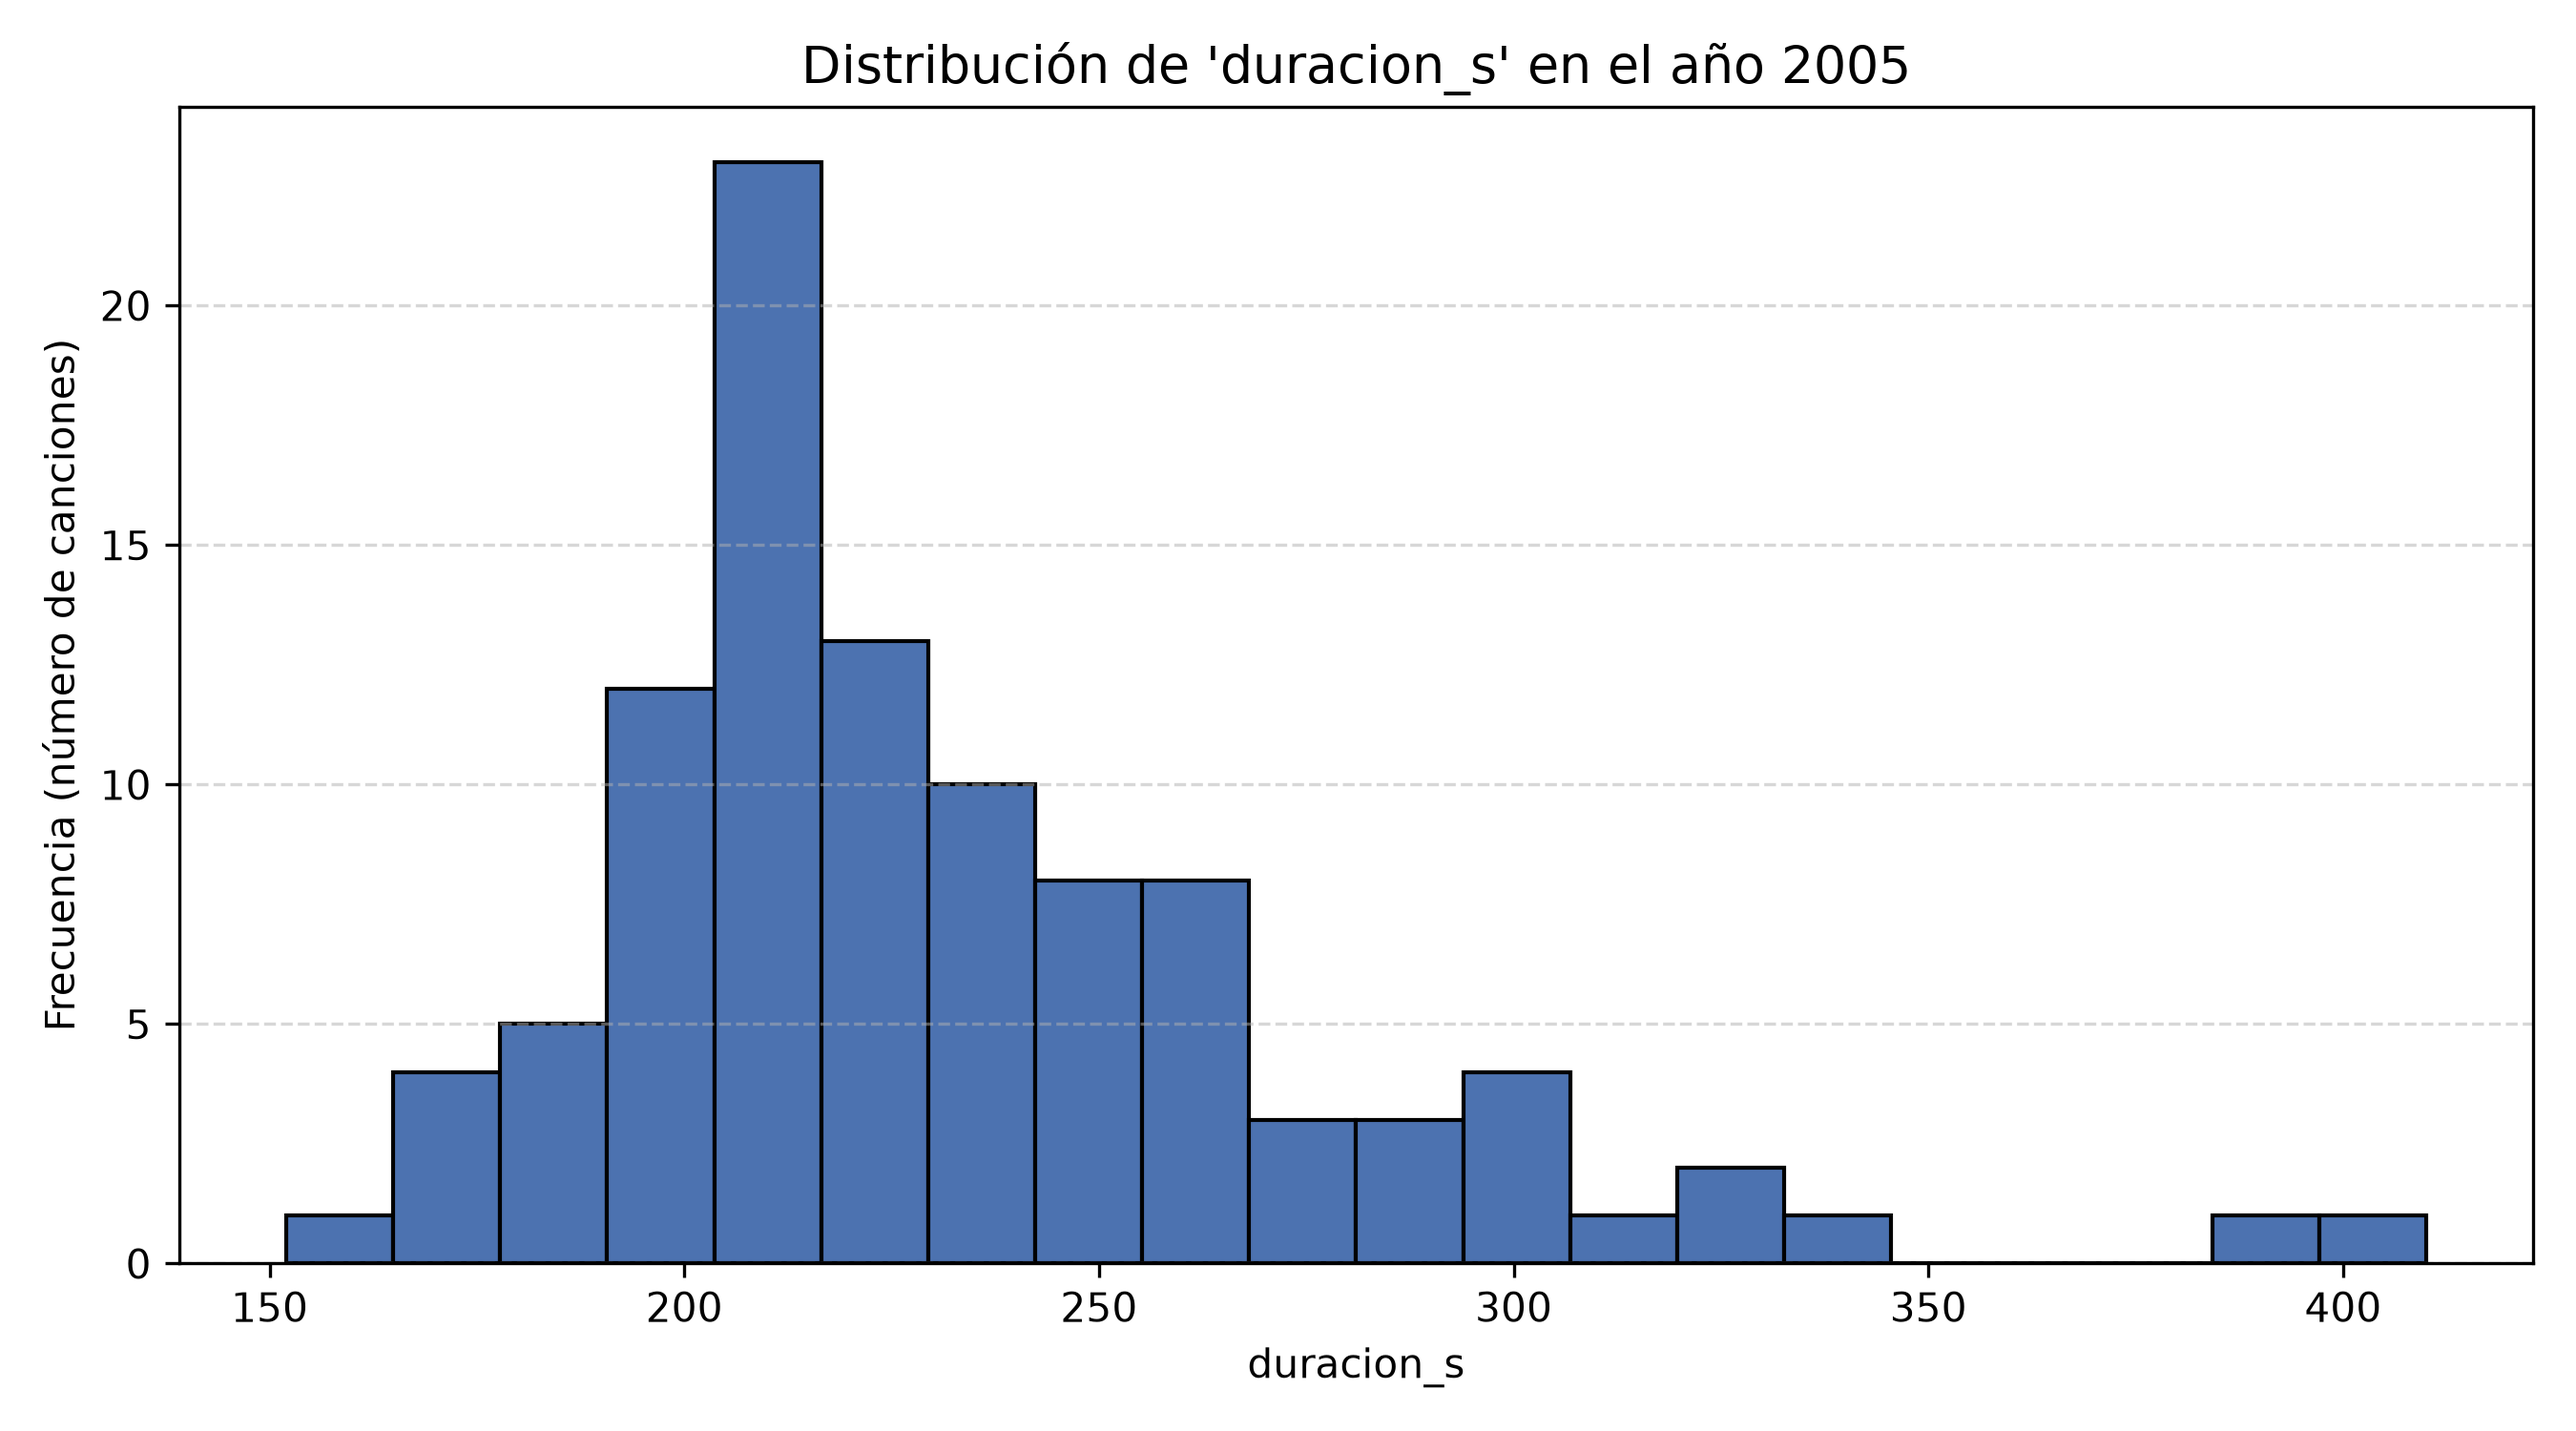
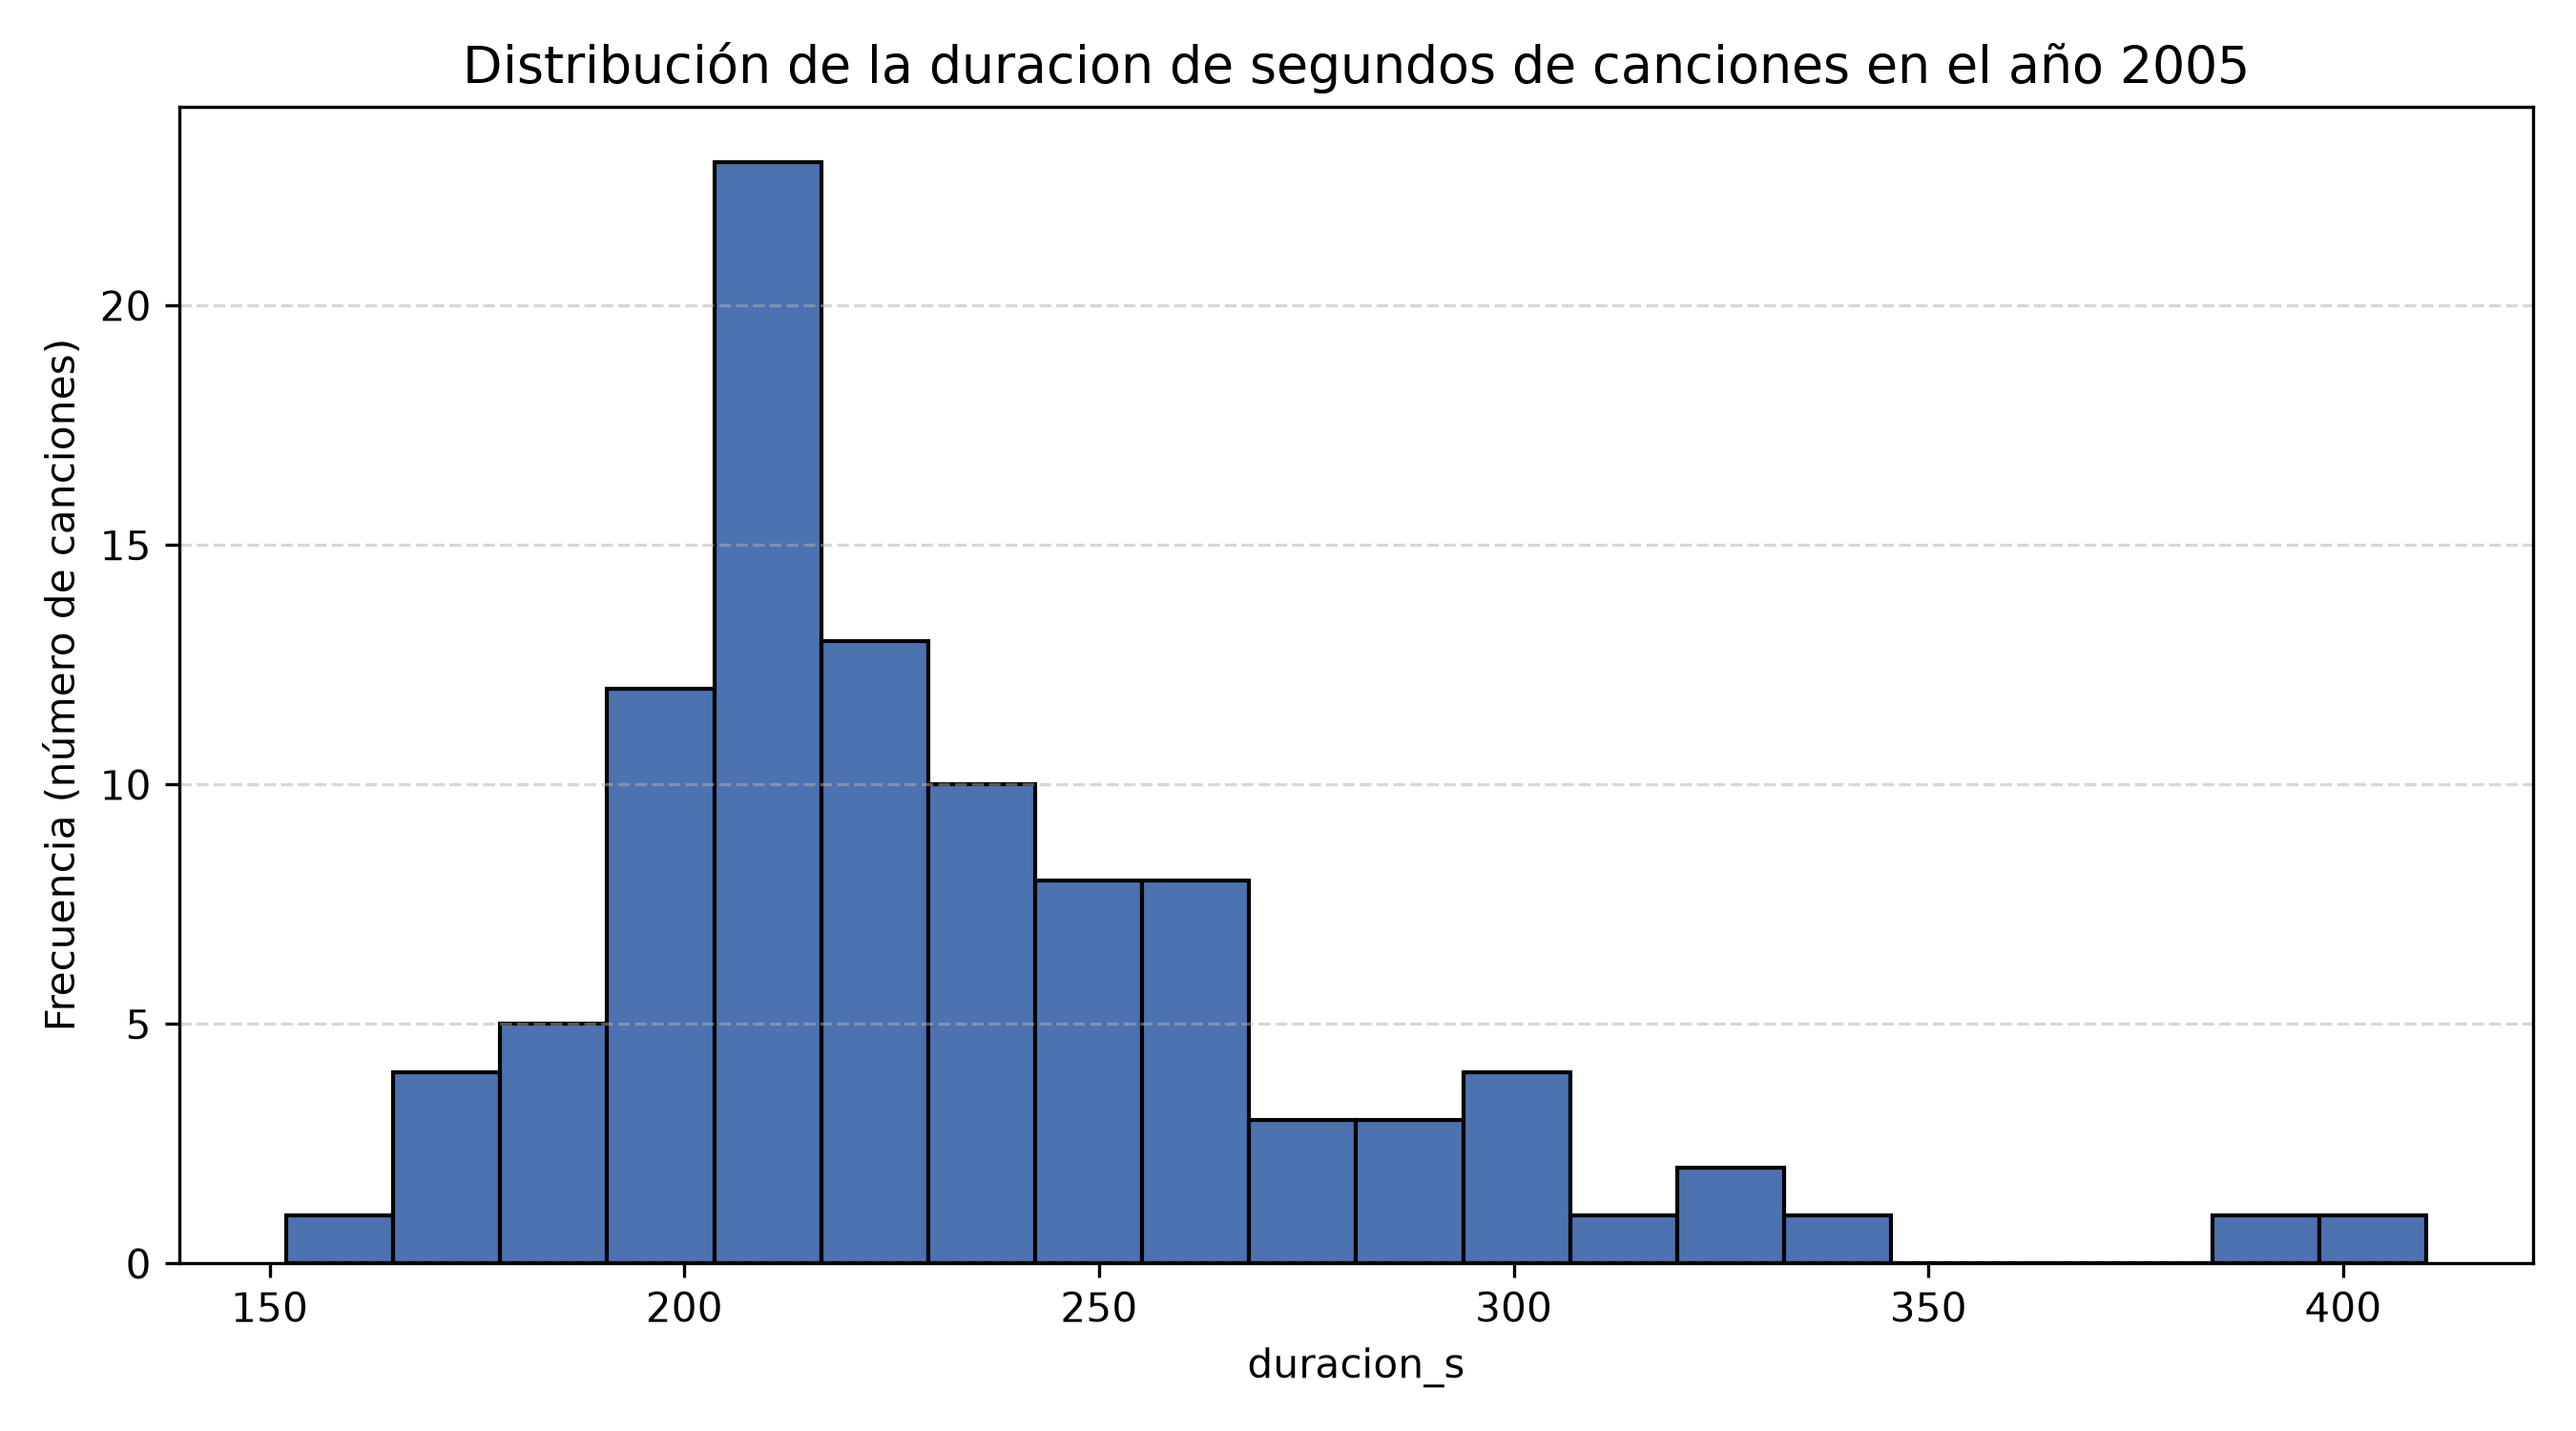
añadido el analisis estadisticos de los datos

Changed region(s): [[0.1867, 0.0307, 0.8711, 0.0613]]

diff --git a/main.py b/main.py
@@ -12,12 +12,21 @@ from comun.fusionar_dataframes import limpiar_dataframe_final, fusionar_datafram
 from graficos.histograma import generar_histograma_duracion, generar_histograma_duracion_por_año, generar_histograma_fans
 
 from graficos.blotpox_outliers import generar_boxplot
+
+from calculos.calculos_estadistica import calcular_estadisticas_numericas
+
+from graficos.barras import diagramas_barras
+
+from graficos.dispersion import diagramas_dispersion
+
+from graficos.mapa_calor import mapa_calor
 def menu_general():
 
     print("0 salir")
     print("1 generar dataframe web scraping")
     print("2 generar dataframe API")
     print("3 generar dataframe conjunto")
+    print("4 calculos estadisticos de datos")
 
 
 
@@ -44,6 +53,7 @@ def menu_grafica():
     print("2 barras")
     print("3 blotpox")
     print("4 dispersion")
+    print("5 mapa de calor")
 
 
 def web_scraping_menus():
@@ -56,12 +66,12 @@ def web_scraping_menus():
 
             menu_web_scraping()
 
-            opcion_web_scraping = try_except_int("escoge una opcion")
+            opcion_web_scraping = try_except_int("escoge una opcion: ")
 
             while(opcion_web_scraping < 0 or opcion_web_scraping > 2):
 
                 menu_web_scraping()
-                opcion_web_scraping = try_except_int("escoge una opcion correcta")
+                opcion_web_scraping = try_except_int("escoge una opcion correcta: ")
 
 
             if (opcion_web_scraping == 1):
@@ -96,12 +106,12 @@ def api_menu():
 
     while(opcion_api != 0):
         
-        opcion_api = try_except_int("escoge una opcion")
+        opcion_api = try_except_int("escoge una opcion: ")
 
         while(opcion_api < 0 or opcion_api > 2):
 
             menu_api()
-            opcion_api = try_except_int("escoge una opcion correcta")
+            opcion_api = try_except_int("escoge una opcion correcta: ")
 
         try:
 
@@ -126,6 +136,28 @@ def api_menu():
     return dataframe_api_scraping
 
 
+def ver_no_ver_dataframe(df): # funcion para decidir si el usuario quiere ver que datos hay en el dataframe 
+# final 
+
+    opcion_ver_dataframe = try_except_int("pon 1 si quieres ver el dataframe final, 0 en caso contrario: ")
+
+    while(opcion_ver_dataframe != 0 and opcion_ver_dataframe != 1): # si no es ni 0 ni 1 vuelve a pedir un dato
+                    
+        opcion_ver_dataframe = try_except_int("pon un dato correcto, 1 si quieres ver el dataframe final, 0 en caso contrario: ")
+                
+                
+    if (opcion_ver_dataframe == 1): # si es 1 mostramos el tmaño de el dataframe
+
+        print("tamaño del dataframe fusionado:", df.shape)
+        print(df.head())
+
+        print("tamaño de los datos en total :", df.shape[0]*df.shape[1])
+
+        print("valores vacíos que quedan:", df.isna().sum().sum())
+
+        print(df.info()) # mostramos los datos de el dataframe
+
+
 
 
 
@@ -137,7 +169,7 @@ while(opcion != 0): # bucle que solo sale si se escribe un 0
 
     opcion = try_except_int("escoge una opcion: ")
 
-    while(opcion < 0 or opcion > 3):
+    while(opcion < 0 or opcion > 4):
 
         menu_general()
 
@@ -155,22 +187,25 @@ while(opcion != 0): # bucle que solo sale si se escribe un 0
 
     elif (opcion == 3):
 
+        
         menu_grafica()
 
         opcion_grafica = try_except_int("escoge una opcion: ")
 
-        while(opcion != 0):
+        while(opcion_grafica != 0):
 
-            while(opcion < 0 or opcion > 4):
+            while(opcion_grafica < 0 or opcion_grafica > 5):
 
                 opcion_grafica = try_except_int("escoge una opcion correcta: ")
 
 
-            if (opcion != 0):
+            if (opcion_grafica != 0):
 
                 df = limpiar_dataframe_final(fusionar_dataframes())
 
-                if (opcion == 1):
+                ver_no_ver_dataframe(df)
+
+                if (opcion_grafica == 1):
 
                 
                     print("histograma general")
@@ -190,11 +225,33 @@ while(opcion != 0): # bucle que solo sale si se escribe un 0
                             generar_histograma_duracion_por_año(df, año_elegido)
 
                         
-                        generar_histograma_fans(df)
+                    
+                    generar_histograma_fans(df)
 
-                
-                elif (opcion == 3):
+                    opcion_grafica = 0
+
+                elif(opcion_grafica == 2):
+
+                    diagramas_barras()
+
+                elif (opcion_grafica == 3):
 
                     tabla = input("escribe que grafica quieres ver el blotpox: ")
 
                     generar_boxplot(df, tabla)
+
+                    opcion_grafica = 0
+
+                elif (opcion_grafica == 4):
+
+                    diagramas_dispersion()
+
+                elif (opcion == 5):
+                    mapa_calor()
+
+    
+    elif(opcion == 4):
+
+        resultado = calcular_estadisticas_numericas(limpiar_dataframe_final(fusionar_dataframes()))
+
+        print(resultado)

diff --git a/calculos/calculos_estadistica.py b/calculos/calculos_estadistica.py
@@ -1,0 +1,44 @@
+import numpy as np
+import pandas as pd
+
+
+def calcular_estadisticas_numericas(df):
+    # 1. Seleccionar solo columnas numéricas (excluyendo booleanas)
+    df_num = df.select_dtypes(include="number")
+
+    resultados = []
+
+    for col in df_num.columns:
+
+        serie = df_num[col].dropna().astype(float) # lo pasa a float incluido los datos que son decimales
+
+        mitjana = serie.mean()
+
+        mediana = serie.median()
+
+        # Puede haber varias modas; cogemos la primera o las unimos si hay empate
+        modas = serie.mode()
+
+        moda = ", ".join(modas.astype(str)) if len(modas) <= 3 else f"{modas.iloc[0]} (y más)"
+
+        varianza = serie.var(ddof=0)            # Varianza muestral (n)
+        desv_estandar = serie.std(ddof=1)       # Desviación estándar (raíz de varianza)
+
+        # Desviación media respecto a la media en valor absoluto
+        desv_abs = np.mean(np.abs(serie - mitjana))
+
+        # Desviación cuadrática media
+        desv_cuadratica = np.sqrt(np.mean((serie - mitjana) ** 2))
+
+        resultados.append({
+            "Variable": col,
+            "Mitjana": round(mitjana, 2),
+            "Mediana": round(mediana, 2),
+            "Moda": moda,
+            "Varianza": round(varianza, 2),
+            "Desv. Estándar": round(desv_estandar, 2),
+            "Desv. valor absoluto": round(desv_abs, 2),
+        })
+
+    tabla_estadisticas = pd.DataFrame(resultados)
+    return tabla_estadisticas

diff --git a/comun/fusionar_dataframes.py b/comun/fusionar_dataframes.py
@@ -38,8 +38,7 @@ def fusionar_dataframes(df_web_scraping=None, df_api=None):
     # validate="many_to_one" -> una canción puede salir varios años, pero en Deezer solo una vez
     df = df_web_scraping.merge(df_api, on=COLUMNAS_UNION, how="left", validate="many_to_one")
 
-    print("tamaño del dataframe fusionado:", df.shape)
-    print(df.head())
+    
 
     # guardamos el resultado
     os.makedirs(CARPETA_PREPARADOS, exist_ok=True)
@@ -110,9 +109,6 @@ def limpiar_dataframe_final(df):
     df = poner_formatos(df)
     df = imputar_datos(df)
 
-    print("tamaño del dataframe final:", df.shape)
-    print("valores vacíos que quedan:", df.isna().sum().sum())
-    print(df.info())
 
     # guardamos el resultado
     df.to_csv(FICHERO_FUSIONADO, index=False, encoding="utf-8")
